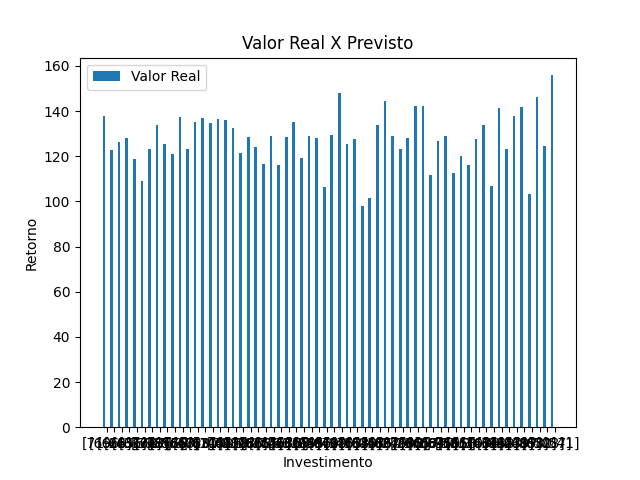
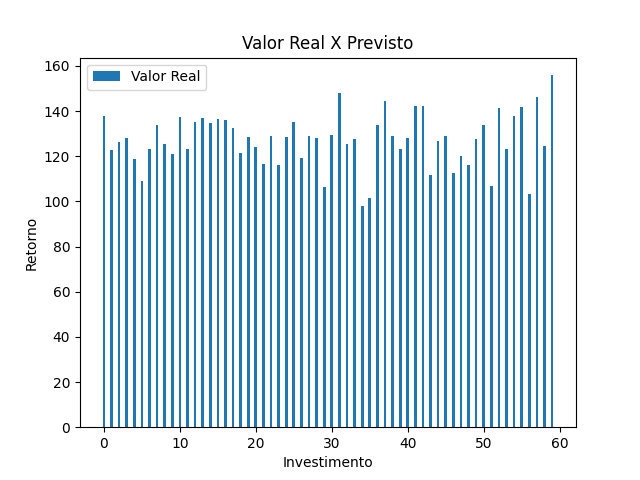
🐛 rotação de eixo x atualizado toDo readme
Changes to be committed:
modified:   Projeto-02/Readme.md
modified:   Projeto-02/projeto-02.py
modified:   img/part01-atual-vs-previsto.png

Changed region(s): [[0.125, 0.9062, 0.9062, 0.9375]]

diff --git a/Projeto-02/projeto-02.py b/Projeto-02/projeto-02.py
@@ -132,7 +132,11 @@ actual = plt.bar(index, df_valores["Real"], bar_width, label="Valor Real")
 plt.xlabel("Investimento")
 plt.ylabel("Retorno")
 plt.title("Valor Real X Previsto")
+<<<<<<< HEAD
 plt.xticks(index + bar_width, X_teste, rotation=90)
+=======
+#plt.xticks(index + bar_width, X_teste, rotation=90)
+>>>>>>> 361bf57 (🐛 rotação de eixo x atualizado toDo readme)
 plt.legend()
 plt.savefig("img/part01-atual-vs-previsto.png")
 plt.show()

diff --git a/Projeto-02/Readme.md b/Projeto-02/Readme.md
@@ -43,7 +43,7 @@ b0 e b1 são estimados durante o treinamento com dados históricos
 ## To do
 - [x] Fazer funções para organizar código
 - [ ] Rotacionar eixo X da legenda do gráfico de comparação
-- [ ] 
+- [ ] Conferir valores escores de previsão
 
 ## Demo
 
